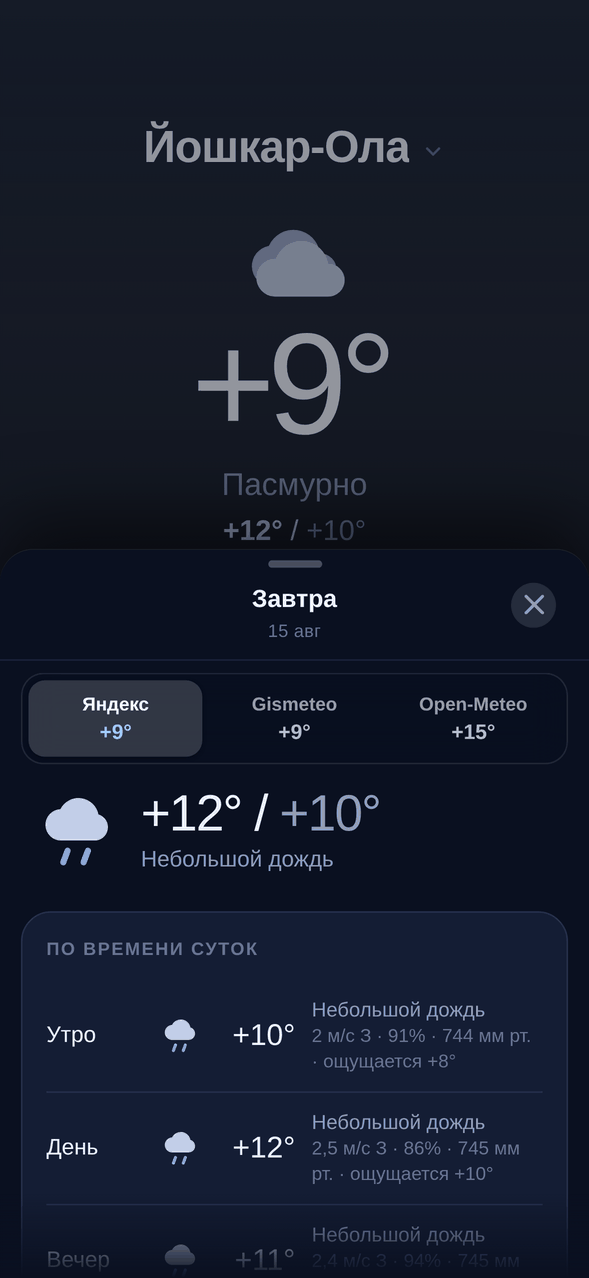
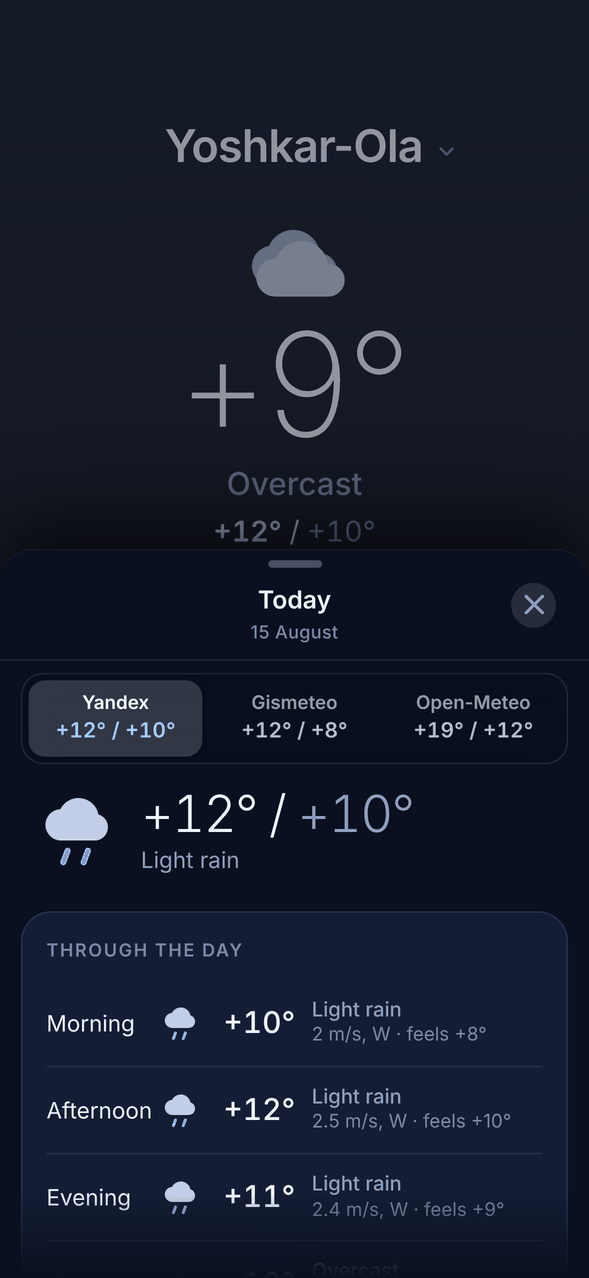
The README's pictures are the English screen, and one command makes them
`python -m tools.phone --readme` renders at the phone's 393x852 as before,
in English (`PHONE_LANG=en`), on the morning the Yandex fixtures were
recorded (`PHONE_AT`), and writes docs/forecast.png and docs/day.png at half
the phone's pixels and 256 colours -- about 60 kB each, as before.

The old pictures were shot at 21:15 on the Gismeteo recording's day, so the
default Yandex tab's list began «Завтра», no hour said «сейчас», and the
hero's range was tomorrow's. These open on Today, with "now" marked, and the
day sheet is today's. The caption says what was true all along: Open-Meteo's
numbers in them are the mock's stand-in, not a recording.

Claude-Session: https://claude.ai/code/session_01ECKoWV22Rxr5uGXnpNADMp

diff --git a/tools/phone.py b/tools/phone.py
@@ -1,6 +1,9 @@
 """Render the app the way the phone actually renders it.
 
 `python -m tools.phone` -> screenshots/phone-*.png
+`PHONE_LANG=en python -m tools.phone` -> the same, in English
+`python -m tools.phone --readme` -> also docs/forecast.png and docs/day.png,
+    the two pictures at the top of the README: English, on Yandex's morning
 
 Six attempts at one bug were spent looking at a desktop window and reasoning
 about a phone, so this renders at the device's real geometry instead.
@@ -63,8 +66,15 @@ FIXTURE_NOW = _fixture_now()
 # was left"). Shot at 21:15 on the 14th, that tab's list began «Завтра», no
 # hour said «сейчас», and today's range was missing. `PHONE_AT` shoots at
 # another instant: `PHONE_AT=2026-08-15T04:05:00+00:00` is Yandex's morning.
+README = "--readme" in sys.argv
+if README:
+    os.environ.setdefault("PHONE_AT", "2026-08-15T04:05:00+00:00")
+    os.environ.setdefault("PHONE_LANG", "en")
 if os.environ.get("PHONE_AT"):
     FIXTURE_NOW = dt.datetime.fromisoformat(os.environ["PHONE_AT"])
+# The browser's language is what the app reads to choose its own, as a phone's
+# would be: `ru` or `en`.
+LOCALE = "en-US" if os.environ.get("PHONE_LANG") == "en" else "ru-RU"
 FIXTURE_DAY = FIXTURE_NOW.astimezone(zone(cities.get("yoshkar-ola").tz)).date()
 
 # iPhone 15 Pro, measured on the device by `static/debug.js`.
@@ -127,7 +137,7 @@ async def main(port=8097, mode="ok"):
             b = await pw.chromium.launch(executable_path=_chromium_path())
             ctx = await b.new_context(
                 viewport={"width": VIEW[0], "height": VIEW[1]},
-                device_scale_factor=DSF, color_scheme="dark", locale="ru-RU")
+                device_scale_factor=DSF, color_scheme="dark", locale=LOCALE)
             pg = await ctx.new_page()
             await pg.clock.set_fixed_time(FIXTURE_NOW)
             await pg.goto(f"http://127.0.0.1:{port}/weather/",
@@ -177,6 +187,21 @@ async def main(port=8097, mode="ok"):
         srv.terminate()
         srv.wait(timeout=10)
     print("wrote", ", ".join(sorted(p.name for p in OUT.glob("phone-*.png"))))
+    if README:
+        _readme()
+
+
+def _readme():
+    """Half the phone's pixels and 256 colours: the README shows them at 295pt
+    wide, and a 3x full-colour PNG is 600 kB of page weight for a picture of a
+    forecast."""
+    docs = pathlib.Path(__file__).resolve().parent.parent / "docs"
+    for src, dst in (("forecast-top", "forecast"), ("sheet-mid", "day")):
+        im = Image.open(OUT / f"phone-{src}.png").convert("RGB")
+        im = im.resize((im.width // 2, im.height // 2), Image.LANCZOS)
+        im.quantize(256, method=Image.Quantize.MEDIANCUT).save(
+            docs / f"{dst}.png", optimize=True)
+    print("wrote docs/forecast.png, docs/day.png")
 
 
 if __name__ == "__main__":

diff --git a/tools/README.md b/tools/README.md
@@ -13,7 +13,7 @@ because a specific question came up once and will come up again.
 | `flight_probe.py` | Dumps Yandex's RSC flight stream and pulls out any JSON value by key. This is how the `fact` object was found in the first place. |
 | `shoot.py` | Screenshots at iPhone size, light and dark, against the mock server. `make shots` |
 | `trim_fixtures.py` | Not a diagnostic: what every recorded page goes through before it is committed. Cuts a capture down to what the parsers and tests read — the rest is somebody else's site, which a public repository must not redistribute — and writes nothing if the parsers would read the trimmed page any differently. The `make fixtures*` targets run it; `--check` says whether a page still needs it. |
-| `phone.py` | **Reach for this before theorising about a phone-only layout bug.** Renders at the phone's real 393×852, applies the safe-area insets Chromium reports as zero, and pins the clock to the moment the fixtures were recorded — so the image is what the display shows rather than what a desktop window contains. It used to render a 393×793 view over a composited 59pt strip, faithfully reproducing a bug whose cause it had not found (`DECISIONS.md` §26). `python -m tools.phone` |
+| `phone.py` | **Reach for this before theorising about a phone-only layout bug.** Renders at the phone's real 393×852, applies the safe-area insets Chromium reports as zero, and pins the clock to the moment the fixtures were recorded — so the image is what the display shows rather than what a desktop window contains. `PHONE_LANG=en` shoots the English screen; `--readme` also writes the two pictures at the top of the README. It used to render a 393×793 view over a composited 59pt strip, faithfully reproducing a bug whose cause it had not found (`DECISIONS.md` §26). `python -m tools.phone` |
 
 `gm-probe.sh` earned its keep: it proved Gismeteo blocks by **IP**, not by
 request shape, after two rounds of header and transport theorising. Every row

diff --git a/README.md b/README.md
@@ -17,11 +17,11 @@ Three independent sources — **Яндекс**, **Gismeteo**, **Open-Meteo** —
 together and switchable with one tap.
 
 <p align="center">
-  <img src="docs/forecast.png" width="295" alt="The forecast screen: Yoshkar-Ola, +9° and overcast, the three sources as tabs with their own temperatures, and an hourly chart">
+  <img src="docs/forecast.png" width="295" alt="The forecast screen in English: Yoshkar-Ola, +9° and overcast, light rain from 10:00 to 22:00, the three sources as tabs with their own temperatures, and an hourly chart">
   &nbsp;
-  <img src="docs/day.png" width="295" alt="Tomorrow opened as a sheet over the forecast: +12° / +10°, light rain, and the day by morning, afternoon and evening">
+  <img src="docs/day.png" width="295" alt="Today opened as a sheet over the forecast: +12° / +10°, light rain, each source's range for the day on its tab, and the day by morning, afternoon and evening">
 </p>
-<p align="center"><sub>Rendered by <code>python -m tools.phone</code> from the recorded fixtures, at the iPhone's 393×852 view.</sub></p>
+<p align="center"><sub>Rendered by <code>python -m tools.phone --readme</code> at the iPhone's 393×852 view, from the recorded Yandex and Gismeteo pages; Open-Meteo's numbers are the mock's stand-in.</sub></p>
 
 Compressed, the shell — page, script and service worker, with a stand-in
 payload — measures about 49 kB, against a test that fails at 49,000 bytes; a
